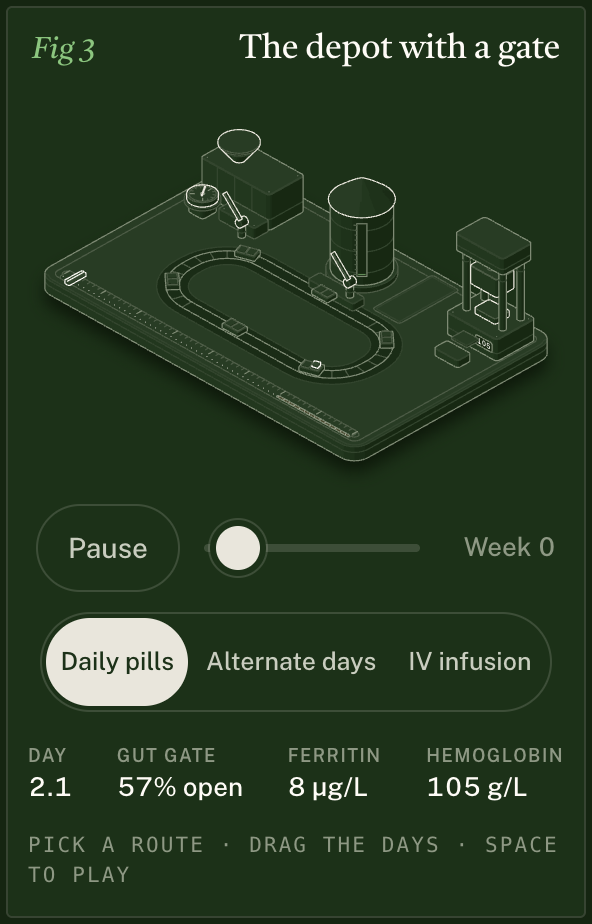
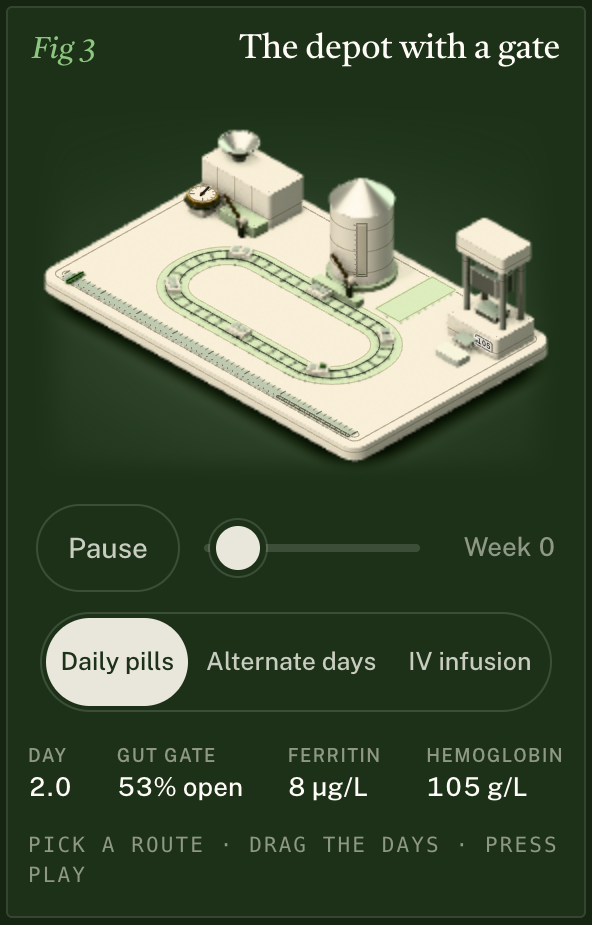
Fig 3 (the depot with a gate) on the shared 3-D layer
146 rendered parts: the 33 recorded solids plus a body for everything the
figure draws without the helpers (ruler, track bed, rails, sleepers, road)
or redraws every frame (boom arms, dial needle, silo level, discs, carts,
day rider, the IV dose mark, the pill). The ram, tanker, rider and pill
move with gl.move; arms, needle and carts get a frame each draw; the
level is a bar scaled along its axis. Colourway: white shells on a white
bench, sage ground works, steel and aluminium working parts, and the
legend's three keys kept (forest iron, brass hepcidin, red cells).
With the layer off the drawing is unchanged.

diff --git a/figures/03-iv-iron/live.js b/figures/03-iv-iron/live.js
@@ -79,7 +79,7 @@ function mount(fig) {
     const x = Math.sin(a * 127.1 + b * 311.7) * 43758.5453;
     return x - Math.floor(x);
   };
-  function cartsSvg(phase, p, laps) {
+  function cartsOf(phase, p, laps) {
     const list = [];
     for (let i = 0; i < CARTS; i++) {
       const u = phase + i / CARTS;
@@ -89,10 +89,13 @@ function mount(fig) {
       const c = [at.x, at.y];
       // ingots: each of the two cradles is filled with probability p (redrawn each lap at the dock)
       const n = (hash(i, lap + laps) < p ? 1 : 0) + (hash(i + 17, lap + laps) < p ? 1 : 0);
-      list.push({ depth: depthOf([c[0], c[1], 0], P), c, t, n });
+      list.push({ i, depth: depthOf([c[0], c[1], 0], P), c, t, n });
     }
-    list.sort((a, b) => a.depth - b.depth);
-    return list
+    return list;
+  }
+  function cartsSvg(list) {
+    return [...list]
+      .sort((a, b) => a.depth - b.depth)
       .map(({ c, t, n }) => {
         let svgc = solidSvg(extrude(rect(c, t, 5.2, 3.2), 1.6, 2.4, P, { bevel: 0.3 }), { tone: "mid" });
         for (const k of [-1, 1]) {
@@ -104,14 +107,15 @@ function mount(fig) {
       })
       .join("");
   }
-  const boomSvg = (b, open) => {
+  const boomFrame = (b, open) => {
     const a = (open * 78 * Math.PI) / 180;
-    const F = G.frameOf([b.x, b.y, b.z], [-Math.cos(a), 0, Math.sin(a)], [0, 1, 0], [Math.sin(a), 0, Math.cos(a)]);
-    return solidSvg(G.prismOf(F, [[-0.8, -0.7], [0.8, -0.7], [0.8, 0.7], [-0.8, 0.7]], 1.2, DATA.booms.len, P), { tone: "hi", crease: "lo" });
+    return G.frameOf([b.x, b.y, b.z], [-Math.cos(a), 0, Math.sin(a)], [0, 1, 0], [Math.sin(a), 0, Math.cos(a)]);
   };
+  const boomSvg = (b, open) => solidSvg(G.prismOf(boomFrame(b, open), [[-0.8, -0.7], [0.8, -0.7], [0.8, 0.7], [-0.8, 0.7]], 1.2, DATA.booms.len, P), { tone: "hi", crease: "lo" });
+  const dialAngle = (H) => -0.75 * Math.PI + Math.min(1, H / 2) * 1.5 * Math.PI;
   const dialNeedle = (H) => {
     const { x, y, r } = DATA.dial;
-    const ang = -0.75 * Math.PI + Math.min(1, H / 2) * 1.5 * Math.PI;
+    const ang = dialAngle(H);
     return lineOnTop([x - Math.sin(ang) * 1.6, y + Math.cos(ang) * 1.6], [x + Math.sin(ang) * (r - 1.8), y - Math.cos(ang) * (r - 1.8)], 10.1, P);
   };
   const levelPath = (f) => {
@@ -163,6 +167,71 @@ function mount(fig) {
   let ramPhase = 0;
   const speed = (h) => (h < 72 ? 10 : 90); // model hours per second: slow for the first three days, then fast
 
+  // ---------------------------------------------------------------- the 3-D layer (shared/gl3): the same yard, rendered
+  // under this SVG. Until the chunk has arrived every call is a no-op and the SVG is the whole figure. Each frame
+  // the state the drawing was just given is pushed to the rendered solids: the two movers the build recorded (ram,
+  // tanker) by the same world vector, and a frame for every solid the page redraws.
+  let glShown = {}; // what was last sent for the on/off parts (cleared when the layer arrives)
+  const gl = gl3Attach(fig, {
+    scene: DATA.gl3,
+    P,
+    W: DATA.W,
+    H: DATA.H,
+    file: DATA.gl3.file,
+    v: DATA.gl3.v,
+    redraw: () => {
+      glShown = {};
+      draw();
+    },
+  });
+  const glShow = (name, visible) => {
+    if (glShown[name] === visible) return;
+    if (gl.set(name, { visible })) glShown[name] = visible;
+  };
+  const UP = [0, 0, 1];
+  const TANKER = DATA.gl3.parts.filter((part) => part.p === "tanker").map((part) => part.n);
+  function glPush({ g, H, day, fer, discs, carts, tankerY, tankerFade, ramZ, pillZ }) {
+    if (!gl.on) return;
+    gl.set("boom.dock.arm", { F: boomFrame(DATA.booms.dock, g) });
+    gl.set("boom.silo.arm", { F: boomFrame(DATA.booms.silo, g) });
+    {
+      const ang = dialAngle(H);
+      const u = [Math.sin(ang), -Math.cos(ang), 0];
+      gl.set("dial.needle", { F: { o: [DATA.dial.x, DATA.dial.y, 10.12], a: UP, u, v: [-u[1], u[0], 0] } });
+    }
+    // the level: the full-height bar, squeezed along its axis to the fraction shown
+    gl.set("silo.level", { F: { o: [0, 0, DATA.silo.SG.z0 + 1], a: [0, 0, Math.max(0.004, Math.min(1, fer / 500))], u: [1, 0, 0], v: [0, 1, 0] } });
+    for (let i = 0; i < 12; i++) glShow(`disc${i}`, i < discs);
+    gl.move("rider", [day * DATA.ruler.perDay, 0, 0]);
+    glShow("dose.iv", mode === "iv");
+    for (const { i, c, t, n } of carts) {
+      const v = [-t[1], t[0], 0];
+      gl.set(`cart${i}.chassis`, { F: { o: [c[0], c[1], 0], a: UP, u: [t[0], t[1], 0], v } });
+      for (const side of [0, 1]) {
+        const k = side ? 1 : -1;
+        const F = { o: [c[0] + t[0] * 2.4 * k, c[1] + t[1] * 2.4 * k, 0], a: UP, u: [t[0], t[1], 0], v };
+        gl.set(`cart${i}.cradle${side}`, { F });
+        const on = n > side;
+        if (on) gl.set(`cart${i}.ingot${side}`, { F });
+        glShow(`cart${i}.ingot${side}`, on);
+      }
+    }
+    gl.move("tanker", [0, tankerY, 0]);
+    // the tanker fades as it leaves, as drawn; once gone it is taken out (it would still throw a shadow)
+    if (glShown.tankerFade !== tankerFade) {
+      for (const name of TANKER) {
+        glShow(name, tankerFade > 0.01);
+        if (tankerFade > 0.01) gl.set(name, { opacity: tankerFade });
+      }
+      glShown.tankerFade = tankerFade;
+    }
+    gl.move("ram", [0, 0, ramZ]);
+    glShow("pill.iron", pillZ !== null);
+    glShow("pill.cap", pillZ !== null);
+    if (pillZ !== null) gl.move("pill", [0, 0, pillZ - (DATA.hopper[2] + 14)]);
+    gl.render();
+  }
+
   function draw() {
     const s = SIM[mode];
     const g = sample(s.gate, t);
@@ -174,9 +243,11 @@ function mount(fig) {
     nodes.needle.setAttribute("d", dialNeedle(H));
     nodes.level.setAttribute("d", levelPath(Math.min(1, fer / 500)));
     nodes.hb.textContent = String(Math.round(hb));
-    nodes.discs.innerHTML = discsSvg(Math.max(0, Math.min(12, Math.round((hb - PARAMS.hb0) / 2.2))));
+    const discs = Math.max(0, Math.min(12, Math.round((hb - PARAMS.hb0) / 2.2)));
+    nodes.discs.innerHTML = discsSvg(discs);
     nodes.rider.innerHTML = riderSvg(day);
-    nodes.carts.innerHTML = cartsSvg(phase, sample(s.tsat, t), laps);
+    const carts = cartsOf(phase, sample(s.tsat, t), laps);
+    nodes.carts.innerHTML = cartsSvg(carts);
     // the tanker: drives in over the first 10 h, unloads, leaves by hour 60
     let away = 1;
     if (mode === "iv") away = t < 10 ? 1 - t / 10 : t < 40 ? 0 : Math.min(1, (t - 40) / 20);
@@ -196,7 +267,8 @@ function mount(fig) {
     });
     // a pill drops into the hopper at each dose
     const age = clock - pillAt;
-    if (age >= 0 && age < 0.9) {
+    const pillOn = age >= 0 && age < 0.9;
+    if (pillOn) {
       const [hx, hy, hz] = DATA.hopper;
       const z = hz + 14 - 14 * Math.min(1, age / 0.6) ** 2;
       nodes.pill.innerHTML = solidSvg(G.prismOf(G.frameOf([hx - 2, hy, z], [1, 0, 0], [0, 1, 0], [0, 0, 1]), [[-1.1, -1.1], [1.1, -1.1], [1.1, 1.1], [-1.1, 1.1]], 0, 4, P), { tone: "hi" });
@@ -210,6 +282,8 @@ function mount(fig) {
     weekLabel.textContent = `Week ${Math.floor(day / 7)}`;
     if (Math.abs(Number(range.value) - day) > 0.24) range.value = String(Math.round(day * 4) / 4);
     stage.setAttribute("aria-valuenow", String(Math.round(day)));
+    // the render: the pill keeps falling into the hopper's mouth while the drawn one fades at the rim
+    glPush({ g, H, day, fer, discs, carts, tankerY: -DATA.tanker.travel * ease, tankerFade: Math.max(0, 1 - Math.max(0, ease - 0.7) / 0.3), ramZ, pillZ: pillOn ? DATA.hopper[2] + 14 - 14 * (age / 0.6) ** 2 : null });
   }
   const describe = () => {
     const s = SIM[mode];

diff --git a/figures/03-iv-iron/figure.css b/figures/03-iv-iron/figure.css
@@ -10,6 +10,9 @@
 .fe-red .iso-fill, .fe-red .iso-top { fill: var(--fe-red); }
 .fe-red .iso-shade { fill: var(--fe-red-side); }
 .fe-red .iso-edge { stroke: var(--fe-red-side); }
+/* drawn only while the 3-D layer is on (build.mjs: the stretch of rail the drawn apron covers) */
+.fe-gl3-only { display: none; }
+.iso-stage[data-gl3="on"] .fe-gl3-only { display: inline; }
 .fe-sr { position: absolute; width: 1px; height: 1px; overflow: hidden; clip: rect(0 0 0 0); white-space: nowrap; }
 .fe-par { display: block; margin-top: 6px; }
 .fe-par:first-child { margin-top: 0; }

diff --git a/figures/03-iv-iron/NOTES.md b/figures/03-iv-iron/NOTES.md
@@ -1,6 +1,6 @@
 # Fig 3 · The depot with a gate
 
-**Size:** Figure (upper end): 33 recorded solids, 32 painted items, plus page-drawn carts (6 × chassis, 2 cradles, up to 2 ingots), booms, rider, discs, pill. About 110 parts counting sleepers, ticks and screws. SVG only.
+**Size:** Figure (upper end): 33 recorded solids, 32 painted items, plus page-drawn carts (6 × chassis, 2 cradles, up to 2 ingots), booms, rider, discs, pill. About 110 parts counting sleepers, ticks and screws. SVG, with the shared 3-D layer under it (see "3-D layer" below).
 
 **Mapping in one sentence:** a rail yard in which iron is ingots. A hepcidin dial sets two boom gates (ferroportin), at the gut dock and at the ferritin silo. Each pill dropped into the dock's hopper raises hepcidin for about a day, so daily pills half-close their own gate. Transferrin carts carry at most two ingots each to the marrow press, which stamps red discs and counts haemoglobin. The IV tanker skips the dock and fills the silo directly.
 
@@ -43,6 +43,36 @@ All in `reference/truth-pack.md` §3, "How Fig 3 uses these numbers".
 - `node build.mjs --light --audit` → `audit passed`, including the ram's rod sliding out of the crown, posed at both ends of its stroke.
 - `lines.mjs` → `line ends: 0` in both themes, normal and reduced motion.
 - No console errors; no sideways scroll at 390, 360 or 320. At 320 the route labels wrap to two lines inside their pills.
+
+## 3-D layer (shared/gl3, 2026-11-10)
+
+The yard renders under the SVG with the shared real-time layer; the SVG stays on top as ink. With `?gl=off` (or wherever the layer can't run) the drawing is as before: the static SVG is byte-identical apart from three hooks for the layer (`data-gl3-hide` on the bed's tint, a `data-gl3-hide` group round the sleepers' lines, one `.fe-gl3-only` group that is `display: none` until the layer is on), and the live SVG (reduced-motion still, all three routes) matched the previous build's exactly.
+
+**Scene: 146 parts.** The kit's helpers record 33 solids. `build.mjs` adds a body for everything else that is drawn as a solid:
+
+- drawn straight into `back`: the ruler strip, the track (bed in two half-rings, two rails, a sleeper per ruled line), the road;
+- redrawn by the page every frame: both boom arms, the dial's needle, the silo's level, twelve discs, six carts (chassis, two cradles, two ingots each), the day rider, the IV dose mark, the pill;
+- the ram's rod (the drawing clips one rod at the gland): a fixed length under the crown and a length that travels with the ram and hides in the crown when the ram is up.
+
+**How they move (`glPush` in `live.js`, once per `draw()`):** `gl.move("ram" | "tanker" | "rider" | "pill", …)` with the same world vector the SVG uses; `gl.set(name, { F })` for the boom arms, the needle and every cart part; the level is its full-height bar with the frame's axis scaled to the ferritin fraction; discs, ingots and the IV dose mark are shown or hidden. The tanker fades with `opacity` exactly as drawn and is taken out once it has gone.
+
+**Colourway.** Warm white shells on a white bench. Sage for the ground works (track bed, platform, apron, silo foot, road). Graphite and rubber where things stand or roll (feet, boom posts, dial base, tanker chassis and wheels), slate sleepers. Brushed metal for working parts: steel rails, columns, rod and tank; aluminium hopper, roof, ram, die, chute, cradles and ruler; nickel boom hubs. Three colours carry the three keys: **forest is iron** (ingots, half of the pill capsule, the IV dose mark; the silo's level gets its green from the drawn bar) and the day rider, like the scrubber's thumb; **brass is hepcidin** (the dial and the two gates it sets); **red is red cells** (`blood`).
+
+**Left as drawn (ink):** every tick, seam, screw and band; the dial's ticks and needle line (a thin rendered needle sits under it); the sight glass's tint, outline, ticks and green level bar (over a glass strip and a pale level body); the counter's window and digits (on a `paper` panel); the recheck band; the pill dose dots; the rails' lines. Hidden while the layer is on: the bed's tint and the sleepers' ruled lines (both are bodies now).
+
+**Where the render departs from the drawing, and why:**
+
+1. *Hopper.* Drawn with a flat top; rendered hollow, so the pill drops into its mouth and out of sight instead of fading on a lid. For the first 0.6 s the rendered pill follows the drawn one exactly; it then keeps falling while the drawn one fades at the rim.
+2. *Sleepers on the straights.* The drawing rules sleepers at the ring's vertices, which lie on the bends only. The render carries the same pitch along the two long straights (20 more).
+3. *Silo apron.* Drawn 8 deep, which carries it 1.2 over the outer rail; the drawing paints carts over it. Rendered 5.8 deep, so carts pass in front of it instead of through it. The stretch of rail the drawn apron covers is ruled again above it while the layer is on (`.fe-gl3-only`).
+4. *Pill.* A two-part capsule (forest and white) inside the drawn prism's outline.
+5. Carts have no wheels in the drawing and none in the render.
+
+**Needed from shared code:** nothing. Worked around inside the figure: repeated names (`press.column`, `tanker.wheel`) are numbered in `F.GL` so each wheel can be faded; a show-only-while-on class lives in `figure.css` (gl3.css has only `data-gl3-hide`).
+
+**Checked:** all three routes at days 0.25, 1, 2.25, 3, 7, 20, 30, 40, 50 in Cream and Forest night, the pill drop frame by frame, the tanker in, parked and fading out, 390 px both themes, the embed element (`data-gl3="on"`, 146 parts), `node build.mjs --light --audit` → `audit passed`, `node scripts/verify.mjs 03-iv-iron` → `verify: passed`.
+
+**Known, and not from the layer:** the line-end check is timing-sensitive on this figure in Cream. From about day 1 it reports the rider's top line as floating (1.08 px from anything); the build before the layer reports the same at the same day, and both report 0 at day 0.75. `verify.mjs` checks at 1.5 s (about day 0.6), so it passes unless the machine is so loaded that the page has run further.
 
 ## Embed
 
